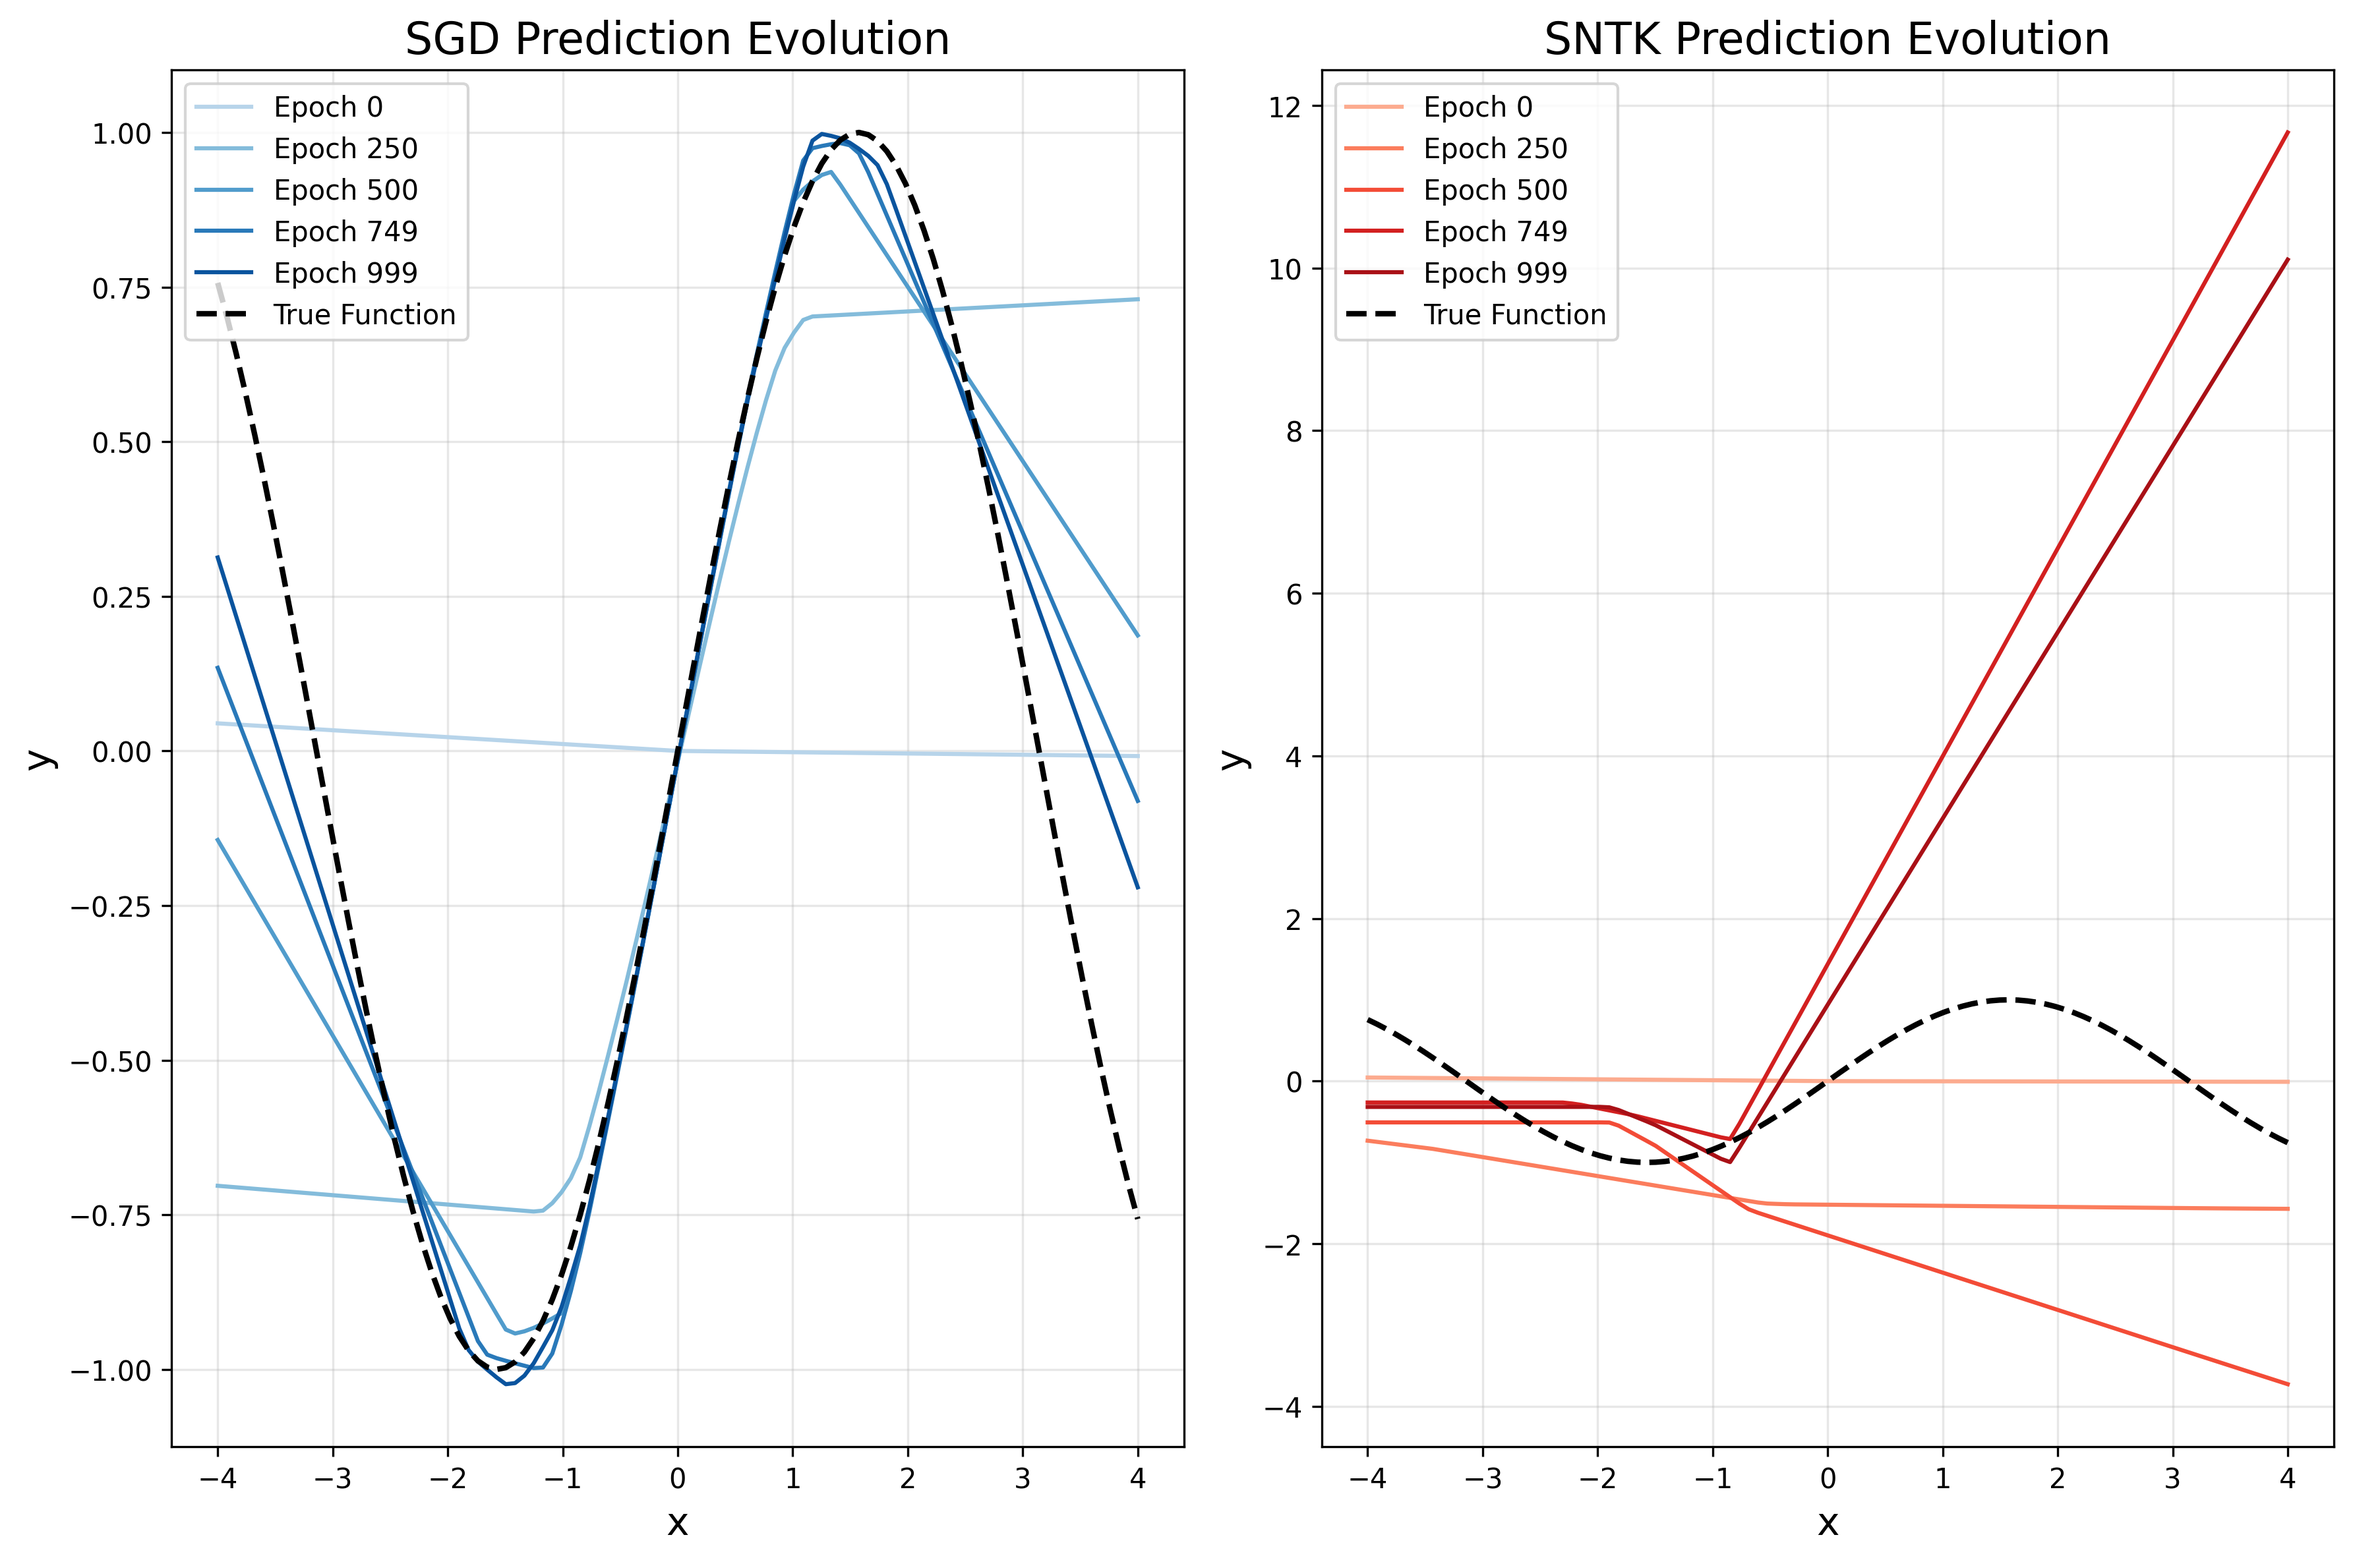
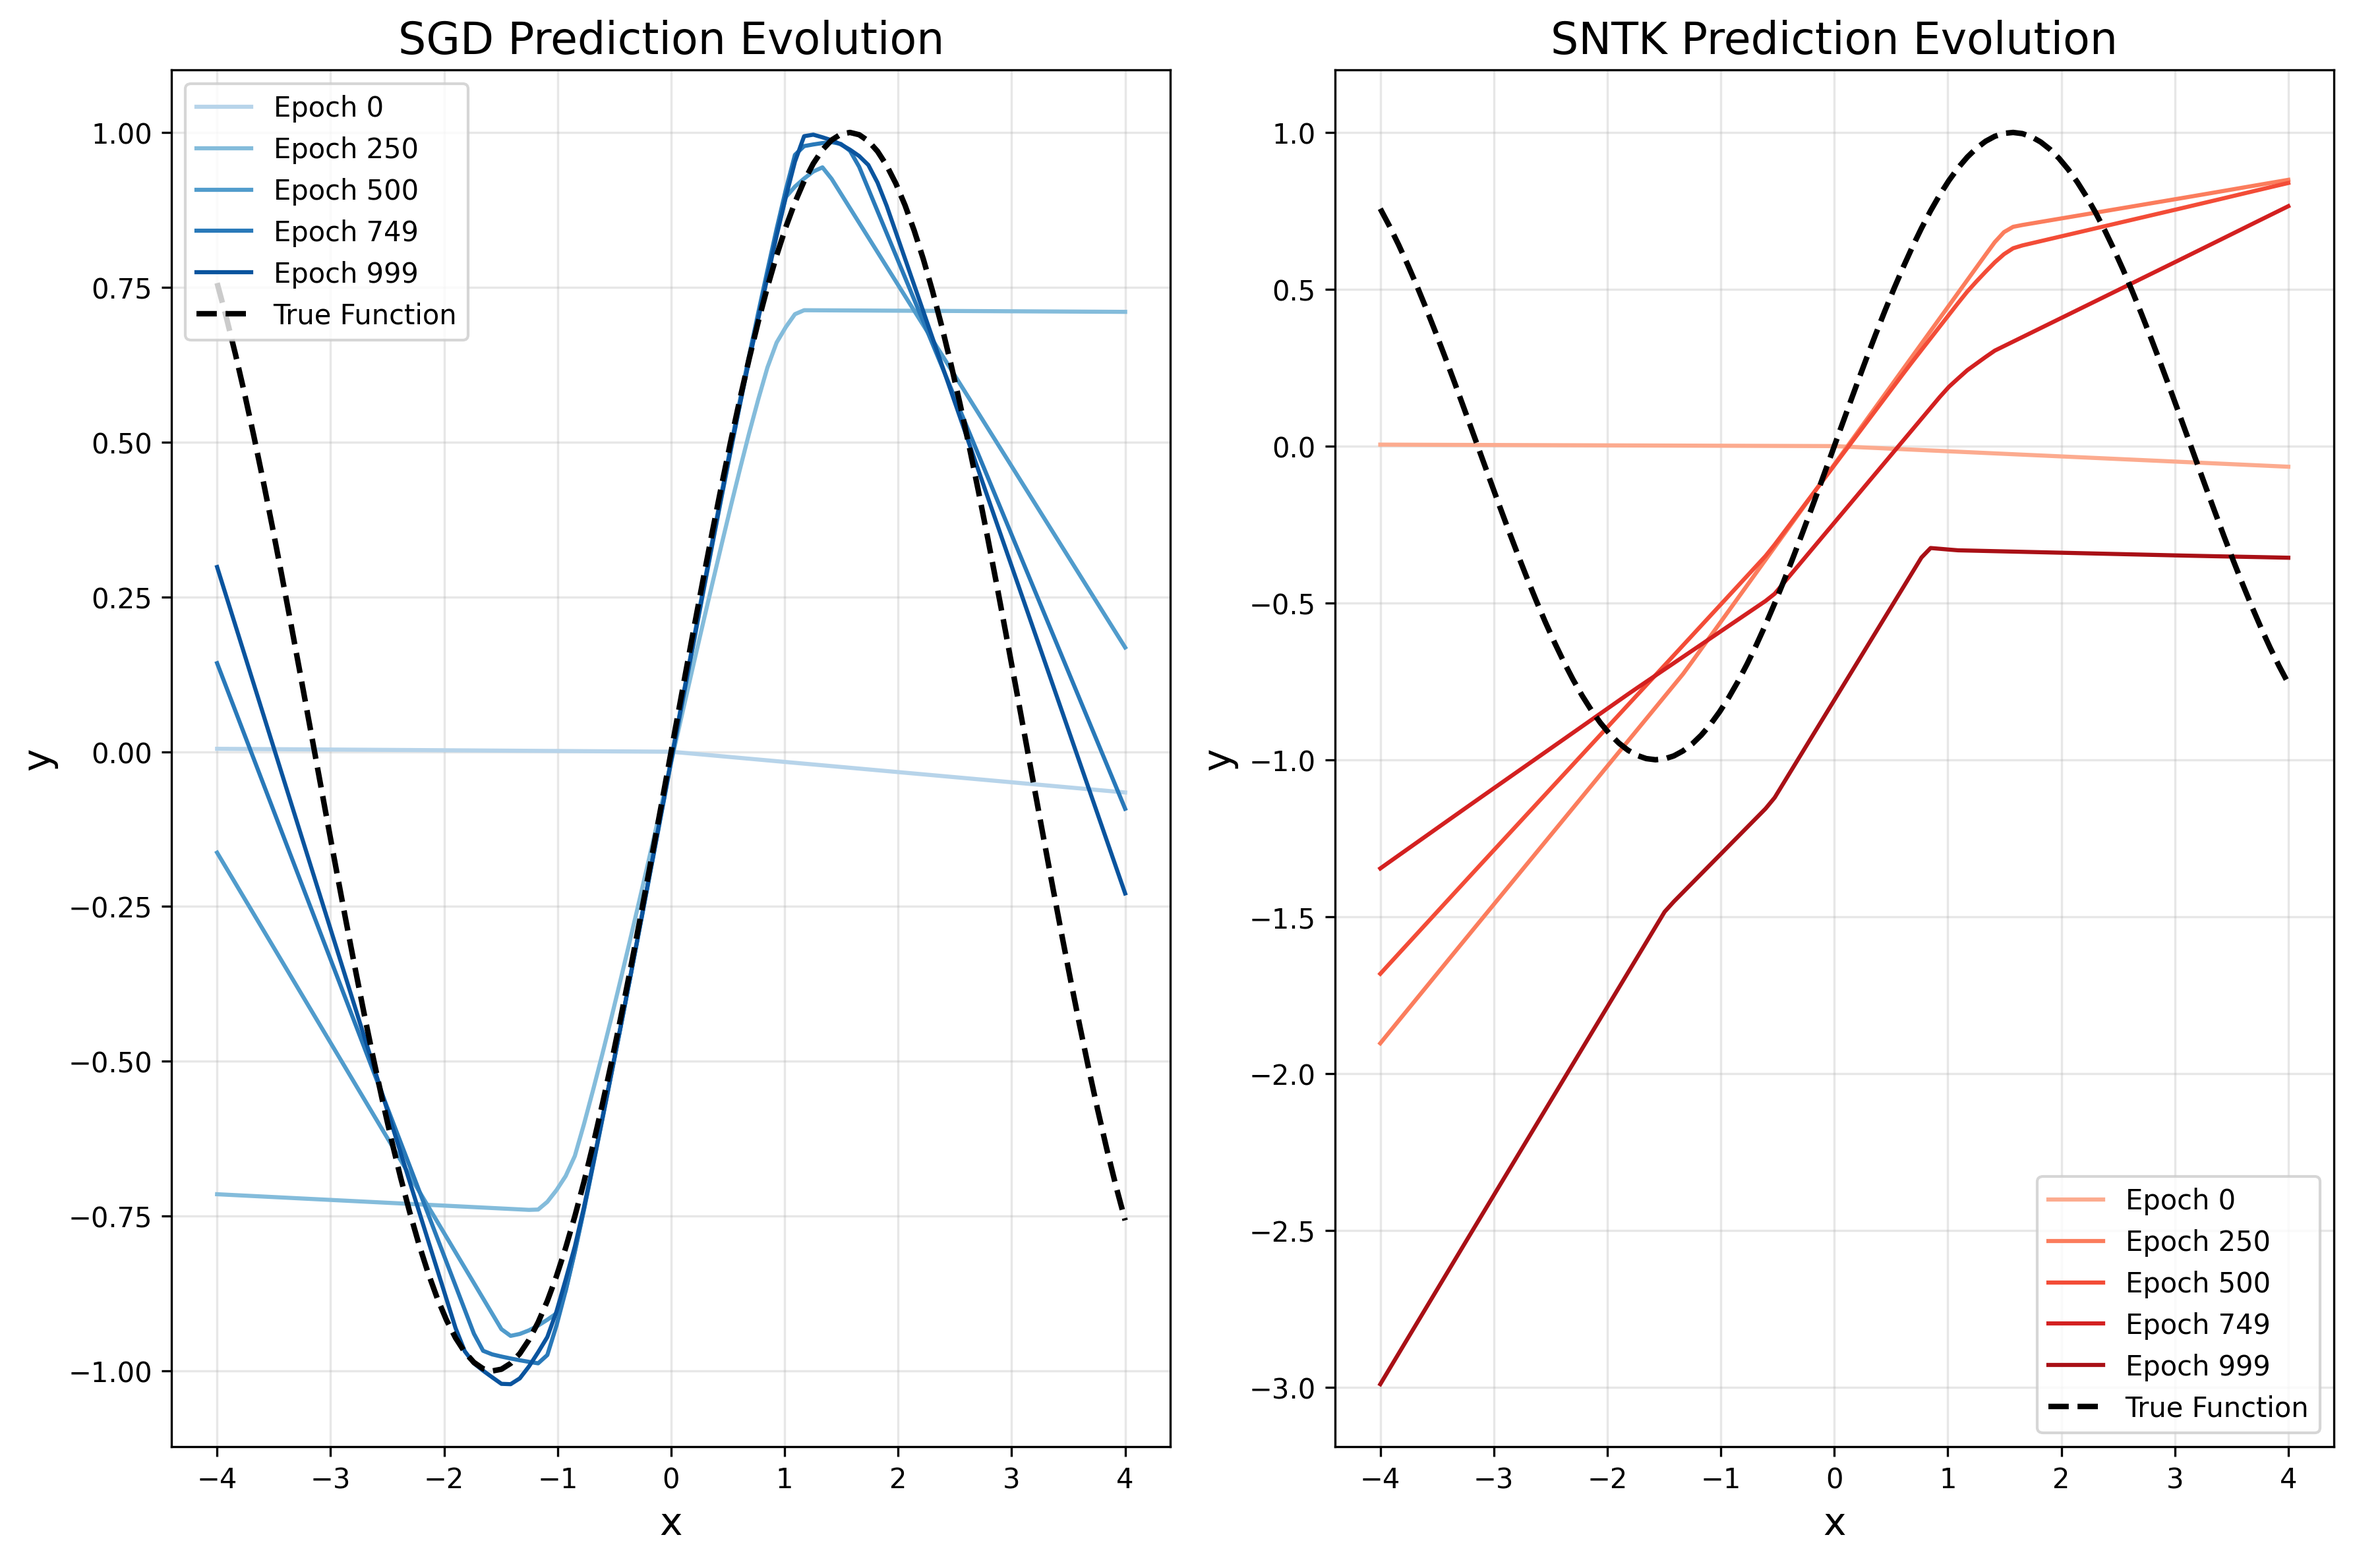
problem 3

diff --git a/kernels.py b/kernels.py
@@ -83,47 +83,30 @@ global_max_sq_residual = 1.0  # Global cap
 historical_thresholds = []    # Track threshold history
 
 def compute_sntk(model, x, x_batch, residuals, epoch=0):
-    """Enhanced SNTK computation with robust stability mechanisms"""
-    global global_max_sq_residual, historical_thresholds
-    
+    """Balanced SNTK computation with selective stability mechanisms"""
     n_samples = x.shape[0]
     n_batch = x_batch.shape[0]
     
-    # Step 1: Calculate baseline statistical threshold
+    # Calculate squared residuals
     residuals_np = residuals.detach().cpu().numpy()
     squared_residuals = residuals_np ** 2
     
-    # Step 2: More conservative sigma (2-sigma instead of 3-sigma)
+    # Calculate statistics with higher threshold (2.5-sigma)
     mean_sq_res = np.mean(squared_residuals)
     std_sq_res = np.std(squared_residuals)
-    stat_threshold = mean_sq_res + 2.0 * std_sq_res
     
-    # Step 3: Apply global cap with decay
-    global_max_sq_residual = min(global_max_sq_residual, max(0.5, 10.0 / (epoch + 10)))
+    # Start with a more permissive threshold
+    base_threshold = mean_sq_res + 2.5 * std_sq_res
     
-    # Step 4: Percentile-based threshold as backup strategy
-    percentile_threshold = np.percentile(squared_residuals, 95)
+    # Decay factor that becomes less restrictive over time
+    # Allowing more stochasticity as training stabilizes
+    epoch_factor = min(1.0, 0.5 + (epoch / 400))
     
-    # Step 5: Use minimum of all threshold strategies
-    max_squared_residual = min(
-        stat_threshold,
-        global_max_sq_residual, 
-        percentile_threshold,
-        0.5  # Hard maximum cap
-    )
+    # Apply an absolute cap that's high enough for stochasticity
+    # but prevents complete divergence
+    max_squared_residual = min(base_threshold * epoch_factor, 2.0)
     
-    # Step 6: Ensure minimum floor for early training stability
-    if epoch < 10:
-        max_squared_residual = max(max_squared_residual, 0.05)
-    
-    # Step 7: Track threshold history for monitoring
-    historical_thresholds.append(max_squared_residual)
-    
-    # Step 8: Apply temporal smoothing if we have history
-    if len(historical_thresholds) > 5:
-        max_squared_residual = 0.7 * max_squared_residual + 0.3 * np.mean(historical_thresholds[-5:])
-    
-    # Compute SNTK with robust clipping
+    # Compute SNTK with balanced clipping
     K_x_batch = compute_ntk(model, x, x_batch)
     K_batch_x = K_x_batch.T
     
@@ -137,14 +120,9 @@ def compute_sntk(model, x, x_batch, residuals, epoch=0):
         chunk_K_x_batch = K_x_batch[chunk_indices, :]
         
         for i in range(n_batch):
-            # Apply enhanced clipping
+            # Simple hard clipping without additional dampening
             r_i_squared = min(residuals[i].item() ** 2, max_squared_residual)
             
-            # Step 9: Apply soft clipping through logarithmic dampening for large values
-            if r_i_squared > max_squared_residual * 0.5:
-                dampen_factor = 0.5 + 0.5 * (max_squared_residual * 0.5) / max(r_i_squared, 1e-10)
-                r_i_squared *= dampen_factor
-                
             outer_product = torch.outer(chunk_K_x_batch[:, i], K_batch_x[i, :])
             sntk_matrix[chunk_indices, :] += r_i_squared * outer_product
     
@@ -152,29 +130,11 @@ def compute_sntk(model, x, x_batch, residuals, epoch=0):
     sntk_matrix /= n_batch
     sntk_matrix = 0.5 * (sntk_matrix + sntk_matrix.T)
     
-    # Step 10: Add adaptive regularization based on eigenvalue conditioning
-    jitter = 1e-4 * (1.0 + np.mean(squared_residuals) * 10)
-    sntk_matrix += jitter * torch.eye(sntk_matrix.shape[0], device=sntk_matrix.device)
+    # Add minimal regularization - just enough for numerical stability
+    jitter = 1e-4 * torch.eye(sntk_matrix.shape[0], device=sntk_matrix.device)
+    sntk_matrix += jitter
     
     return sntk_matrix
-
-def determine_max_squared_residual(residuals):
-    """Determine maximum squared residual threshold using statistical analysis"""
-    # Convert to numpy for statistical calculations
-    residuals_np = residuals.detach().cpu().numpy()
-    squared_residuals = residuals_np ** 2
-    
-    # Calculate statistics
-    mean_sq_res = np.mean(squared_residuals)
-    std_sq_res = np.std(squared_residuals)
-    
-    # Use 3-sigma rule for clipping threshold
-    max_squared_residual = mean_sq_res + 3 * std_sq_res
-    
-    # Add minimal threshold to handle early training
-    max_squared_residual = max(max_squared_residual, 0.1)
-    
-    return max_squared_residual
 
 def calculate_rmse(y_true, y_pred):
     """Calculate Root Mean Squared Error between two arrays"""

diff --git a/experiments.py b/experiments.py
@@ -24,7 +24,7 @@ def run_width_experiment(widths):
         print(f"\n===== Training models with width = {width} =====")
 
         # HYPER PARAMETERS
-        batch_size = 10
+        batch_size = 5
         lr = 0.01
         if width > 512:
             lr = 0.01 * (512/width)**0.5  # Less aggressive scaling for wider networks
@@ -70,8 +70,8 @@ def run_width_experiment(widths):
         num_values = 5
         val = [int(round(i * (epochs-1) / (num_values-1))) for i in range(num_values)]
         # Plot individual width results
-        plot_loss_comparison(sgd_losses, sntk_losses, name=f"{width}")
-        plot_evolution(X_test, y_test_true, sgd_preds, sntk_preds, val, name=f"{width}")
+        plot_loss_comparison(sgd_losses, sntk_losses, name=f"{width}-5bt")
+        plot_evolution(X_test, y_test_true, sgd_preds, sntk_preds, val, name=f"{width}-5bt")
         plot_four_method_comparison(
             X, y, X_test, y_test_true,
             gd_losses, ntk_losses, sgd_losses, sntk_losses,

diff --git a/visualization.py b/visualization.py
@@ -138,7 +138,7 @@ def plot_four_method_comparison(X, y, X_test, y_test_true,
     plt.suptitle(f'Comparison of Training Methods (Width = {width})', fontsize=16)
     plt.tight_layout()
     plt.subplots_adjust(top=0.93)
-    plt.savefig(f'img/four_method_comparison-{width}.png', dpi=300, bbox_inches='tight')
+    plt.savefig(f'img/four_method_comparison-{width}-5bt.png', dpi=300, bbox_inches='tight')
     plt.close()
     
     # Focused view: only final predictions
@@ -177,5 +177,5 @@ def plot_four_method_comparison(X, y, X_test, y_test_true,
     plt.legend(fontsize=12, loc='upper left')
     plt.grid(True, alpha=0.3)
     plt.tight_layout()
-    plt.savefig(f'img/four_method_predictions-{width}.png', dpi=300, bbox_inches='tight')
+    plt.savefig(f'img/four_method_predictions-{width}-5bt.png', dpi=300, bbox_inches='tight')
     plt.close()

diff --git a/training.py b/training.py
@@ -127,11 +127,6 @@ def train_with_sntk(model, X_tensor, y_tensor, X_test_tensor, epochs=100, batch_
             ntk = compute_ntk(model, X_tensor)
             sntk = compute_sntk(model, X_tensor, X_batch, residuals)
             
-            if epoch > 0 and losses[-1] > losses[-2] * 1.2:
-                lr = lr * 0.5  # Reduce learning rate when loss increases
-            else:
-                lr = lr
-            
             with torch.no_grad():
                 deterministic_update = -lr * torch.matmul(ntk, (current_outputs - y_tensor))
                 noise_scale = torch.sqrt(torch.tensor(lr, device=device))

diff --git a/main.py b/main.py
@@ -8,5 +8,6 @@ np.random.seed(42)
 
 if __name__ == "__main__":
     # Run experiment with different network widths
-    widths = [1536, 2048, 3072, 4096, 6144]
+    # widths = [1536, 2048, 3072, 4096, 6144]
+    widths = [2048]
     results = run_width_experiment(widths)
